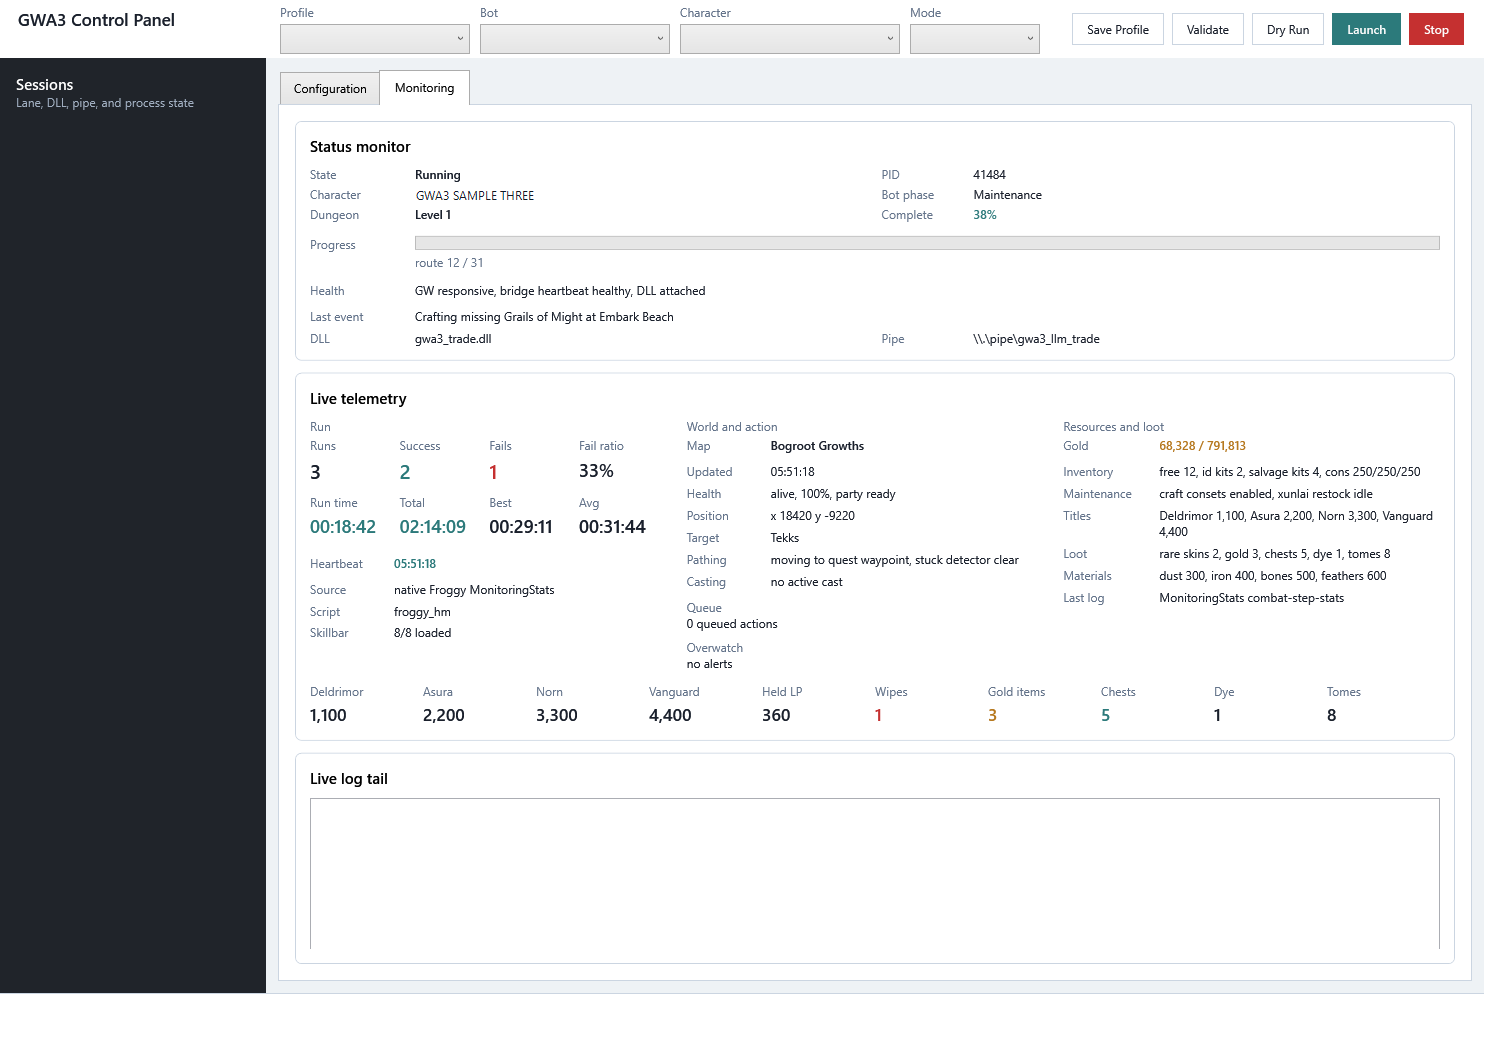
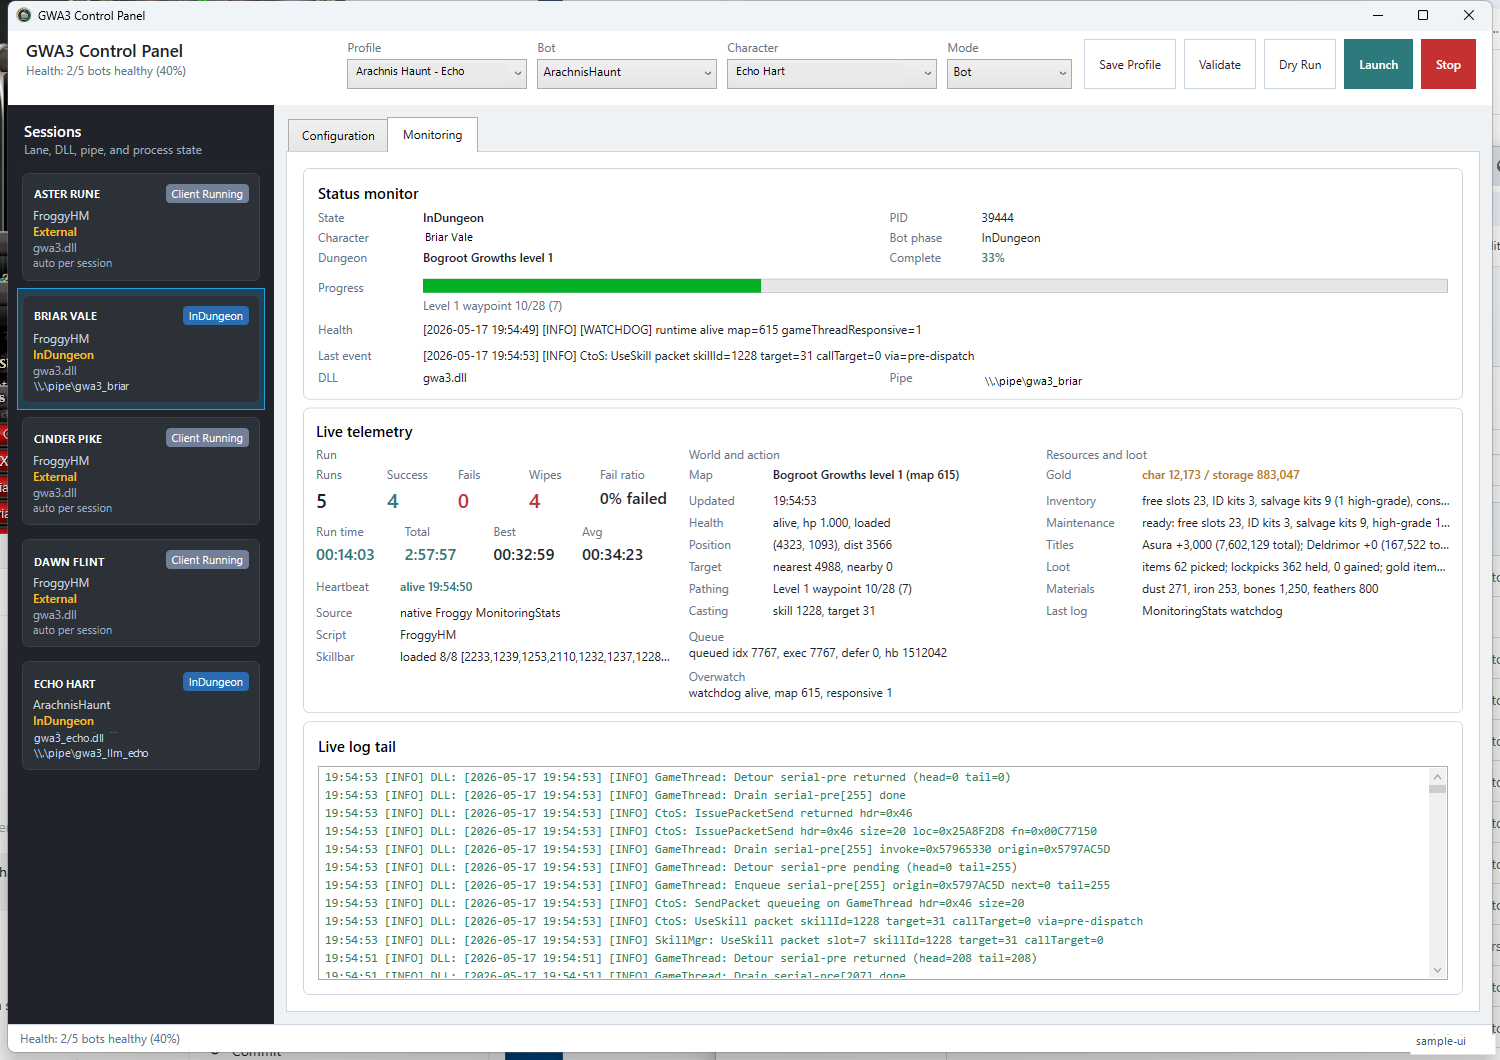
Use sanitized five-lane UI screenshot

diff --git a/README.md b/README.md
@@ -8,7 +8,7 @@ This public repository is a filtered export of the private development tree. It 
 
 ![Froggy HM running Bogroot Growths level 2 boss route with live command log](assets/gwa3_bogrootlvl2boss.gif)
 
-![GWA3 Control Panel monitoring a dungeon bot with live status, telemetry, and log panels](assets/gwa3_control_panel_demo.png)
+![GWA3 Control Panel monitoring five sanitized character lanes with live status, telemetry, and log panels](assets/gwa3_control_panel_demo.png)
 
 ## Layers
 
